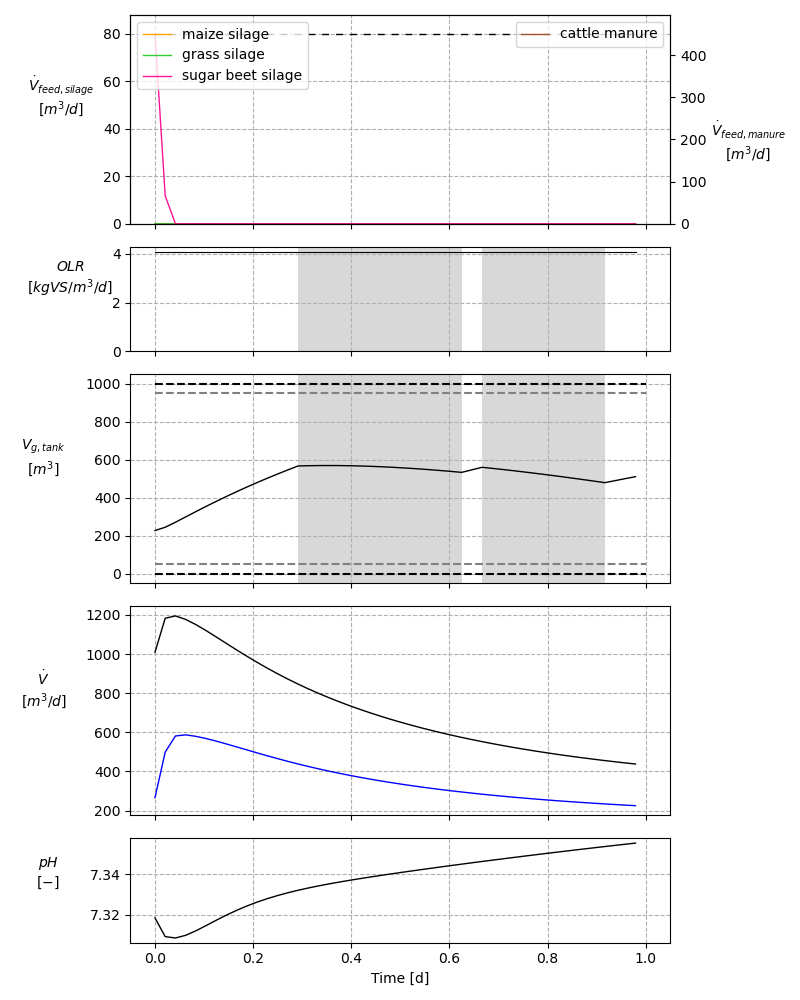
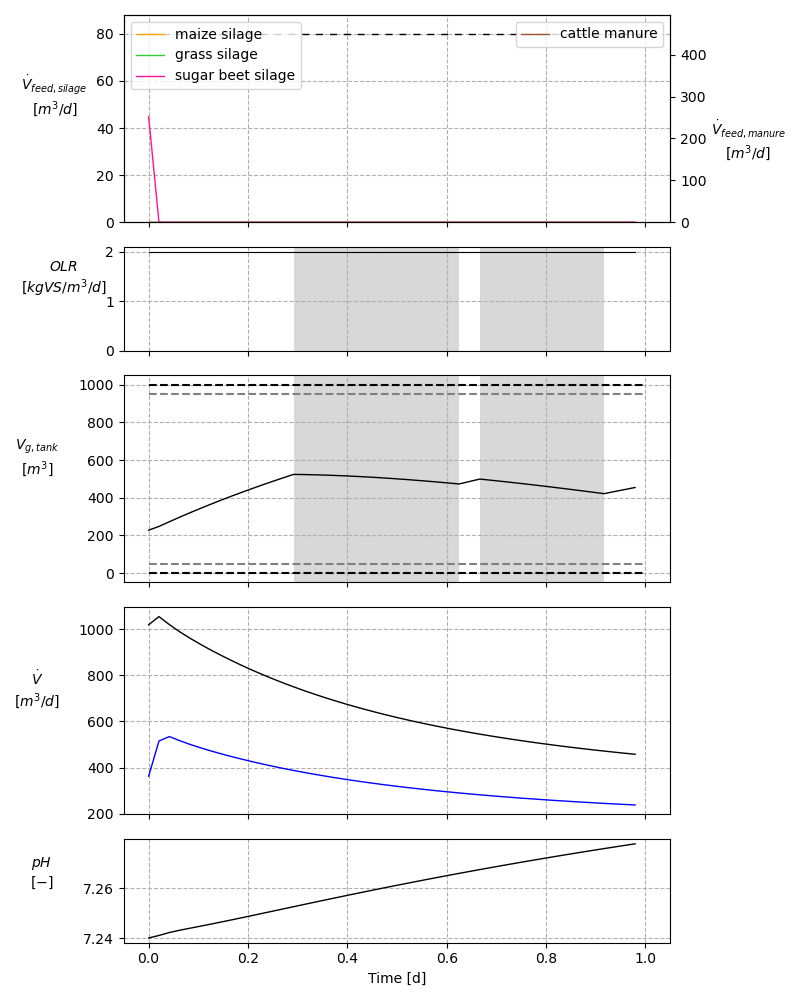
refine steady-state computation, get OLR_ss = 4

diff --git a/ad_meal_prep_control/simulation.py b/ad_meal_prep_control/simulation.py
@@ -588,27 +588,30 @@ class Simulation:
             if self.scenario.pygame_vis:
                 self._screen.fill("white")
 
+            _u_norm_ss_silage = 3.2e-2 / len(self._subs_controlled)  # __SH: results in OLR 4
+            _u_norm_ss_manure = (len(self.Tu) - 1) * min(self.Tu)/max(self.Tu) * _u_norm_ss_silage  # __SH: for equal fresh matter inputs of silages and manure
             u_norm_steady_state = np.array(
                 [
                     [
-                        3e-4 / len(self._subs_controlled) * _tu
-                        if sub.state == "solid"                      # for silages
-                        else 1e-5 / len(self._subs_controlled) * _tu  # for manure
-                        for _tu, sub in zip(self.Tu, self._subs_controlled)
+                        _u_norm_ss_manure
+                        if sub.state == "liquid"
+                        else _u_norm_ss_silage
+                        for sub in self._subs_controlled
                     ]
                 ]
             ).T
 
+            # __SH: compute OLR during steady-state computation:
+            _u_abs_steady_state = (u_norm_steady_state.T * self.Tu[0:4]).T
+            _dot_m_vs_sub = [_u_abs_steady_state[k] * (sum(self._subs_controlled[k].xi[0:4])
+                                                       + sum(self._subs_controlled[k].xi[5:11]))
+                             for k in range(len(self._subs_controlled))]
+            self.olr_ss = sum(_dot_m_vs_sub) / params_R3.Vl
+
+            # compute SS
             y_next = self._simulator.make_step(u_norm_steady_state)
             self.x0_norm_true = np.array(self._simulator.x0.master)
             self.x0_norm_estimated = self._estimator.make_step(y_next)
-
-            # __SH: compute OLR of steady-state computation:
-            _u_abs_steady_state = (u_norm_steady_state.T * self.Tu[0:4]).T
-            _dot_m_vs_sub = [_u_abs_steady_state[k] * (sum(self._subs_controlled[k].xi[0:4])
-                                                     + sum(self._subs_controlled[k].xi[5:11]))
-                             for k in range(len(self._subs_controlled))]
-            self.olr_ss = sum(_dot_m_vs_sub) / params_R3.Vl
 
         # Save normalized x values
         np.savetxt(
